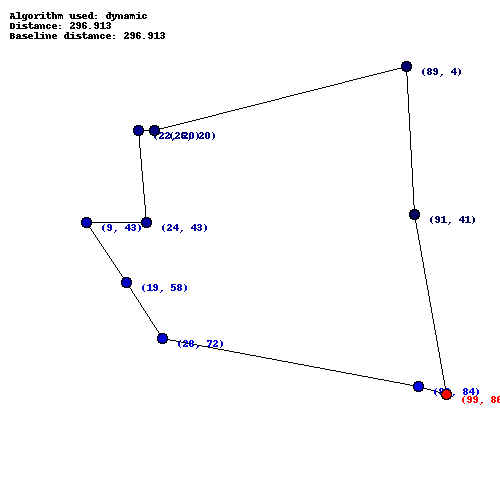
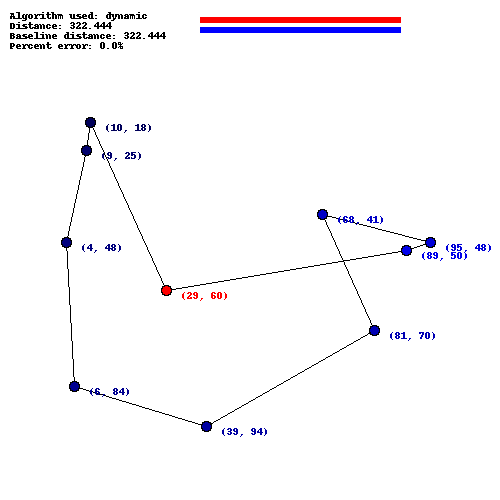
updated visualization, prints percent error and visual comparison

diff --git a/helpers.py b/helpers.py
@@ -111,13 +111,19 @@ def create_png(num, solution_set, distance_set, start_end, cities, d):
 
     d1 = distance_set[num]
     d2 = d
-    min_dist = min(d1, d2)
+    percent_error = round(((abs(d1 - d2) / d2) * 100), 2)
+    larger = max(d1, d2)
 
-    draw.line([(200,20), ], fill = (255, 0, 0))
-    draw.line([(200,30), ], fill = (0, 0, 255))
+    line_len = 200
+    len_d1 = 200 + (d1 * (line_len/larger))
+    len_d2 = 200 + (d2 * (line_len/larger))
+
+    draw.line([(200,20), (len_d1, 20)], fill = (255, 0, 0), width = 5)
+    draw.line([(200,30), (len_d2, 30)], fill = (0, 0, 255), width = 5)
 
     draw.text((10,20), "Distance: " + str(distance_set[num]), font=font, fill = (0,0,0))
     draw.text((10,30), "Baseline distance: " + str(d), font=font, fill = (0,0,0))
+    draw.text((10,40), "Percent error: " + str(percent_error) + "%", font=font, fill = (0,0,0))
     if num == 0:
         name = "greedy"
     elif num == 1:

diff --git a/user_interface.py b/user_interface.py
@@ -179,5 +179,4 @@ number less than 2^25 to account for hardware limitations. \n --> "))
     elif option == 0:
         e_file.close()
         return
-    print locs
     choose_option(g, start_end, locs, cities, e_file, solution_set, distance_set)
